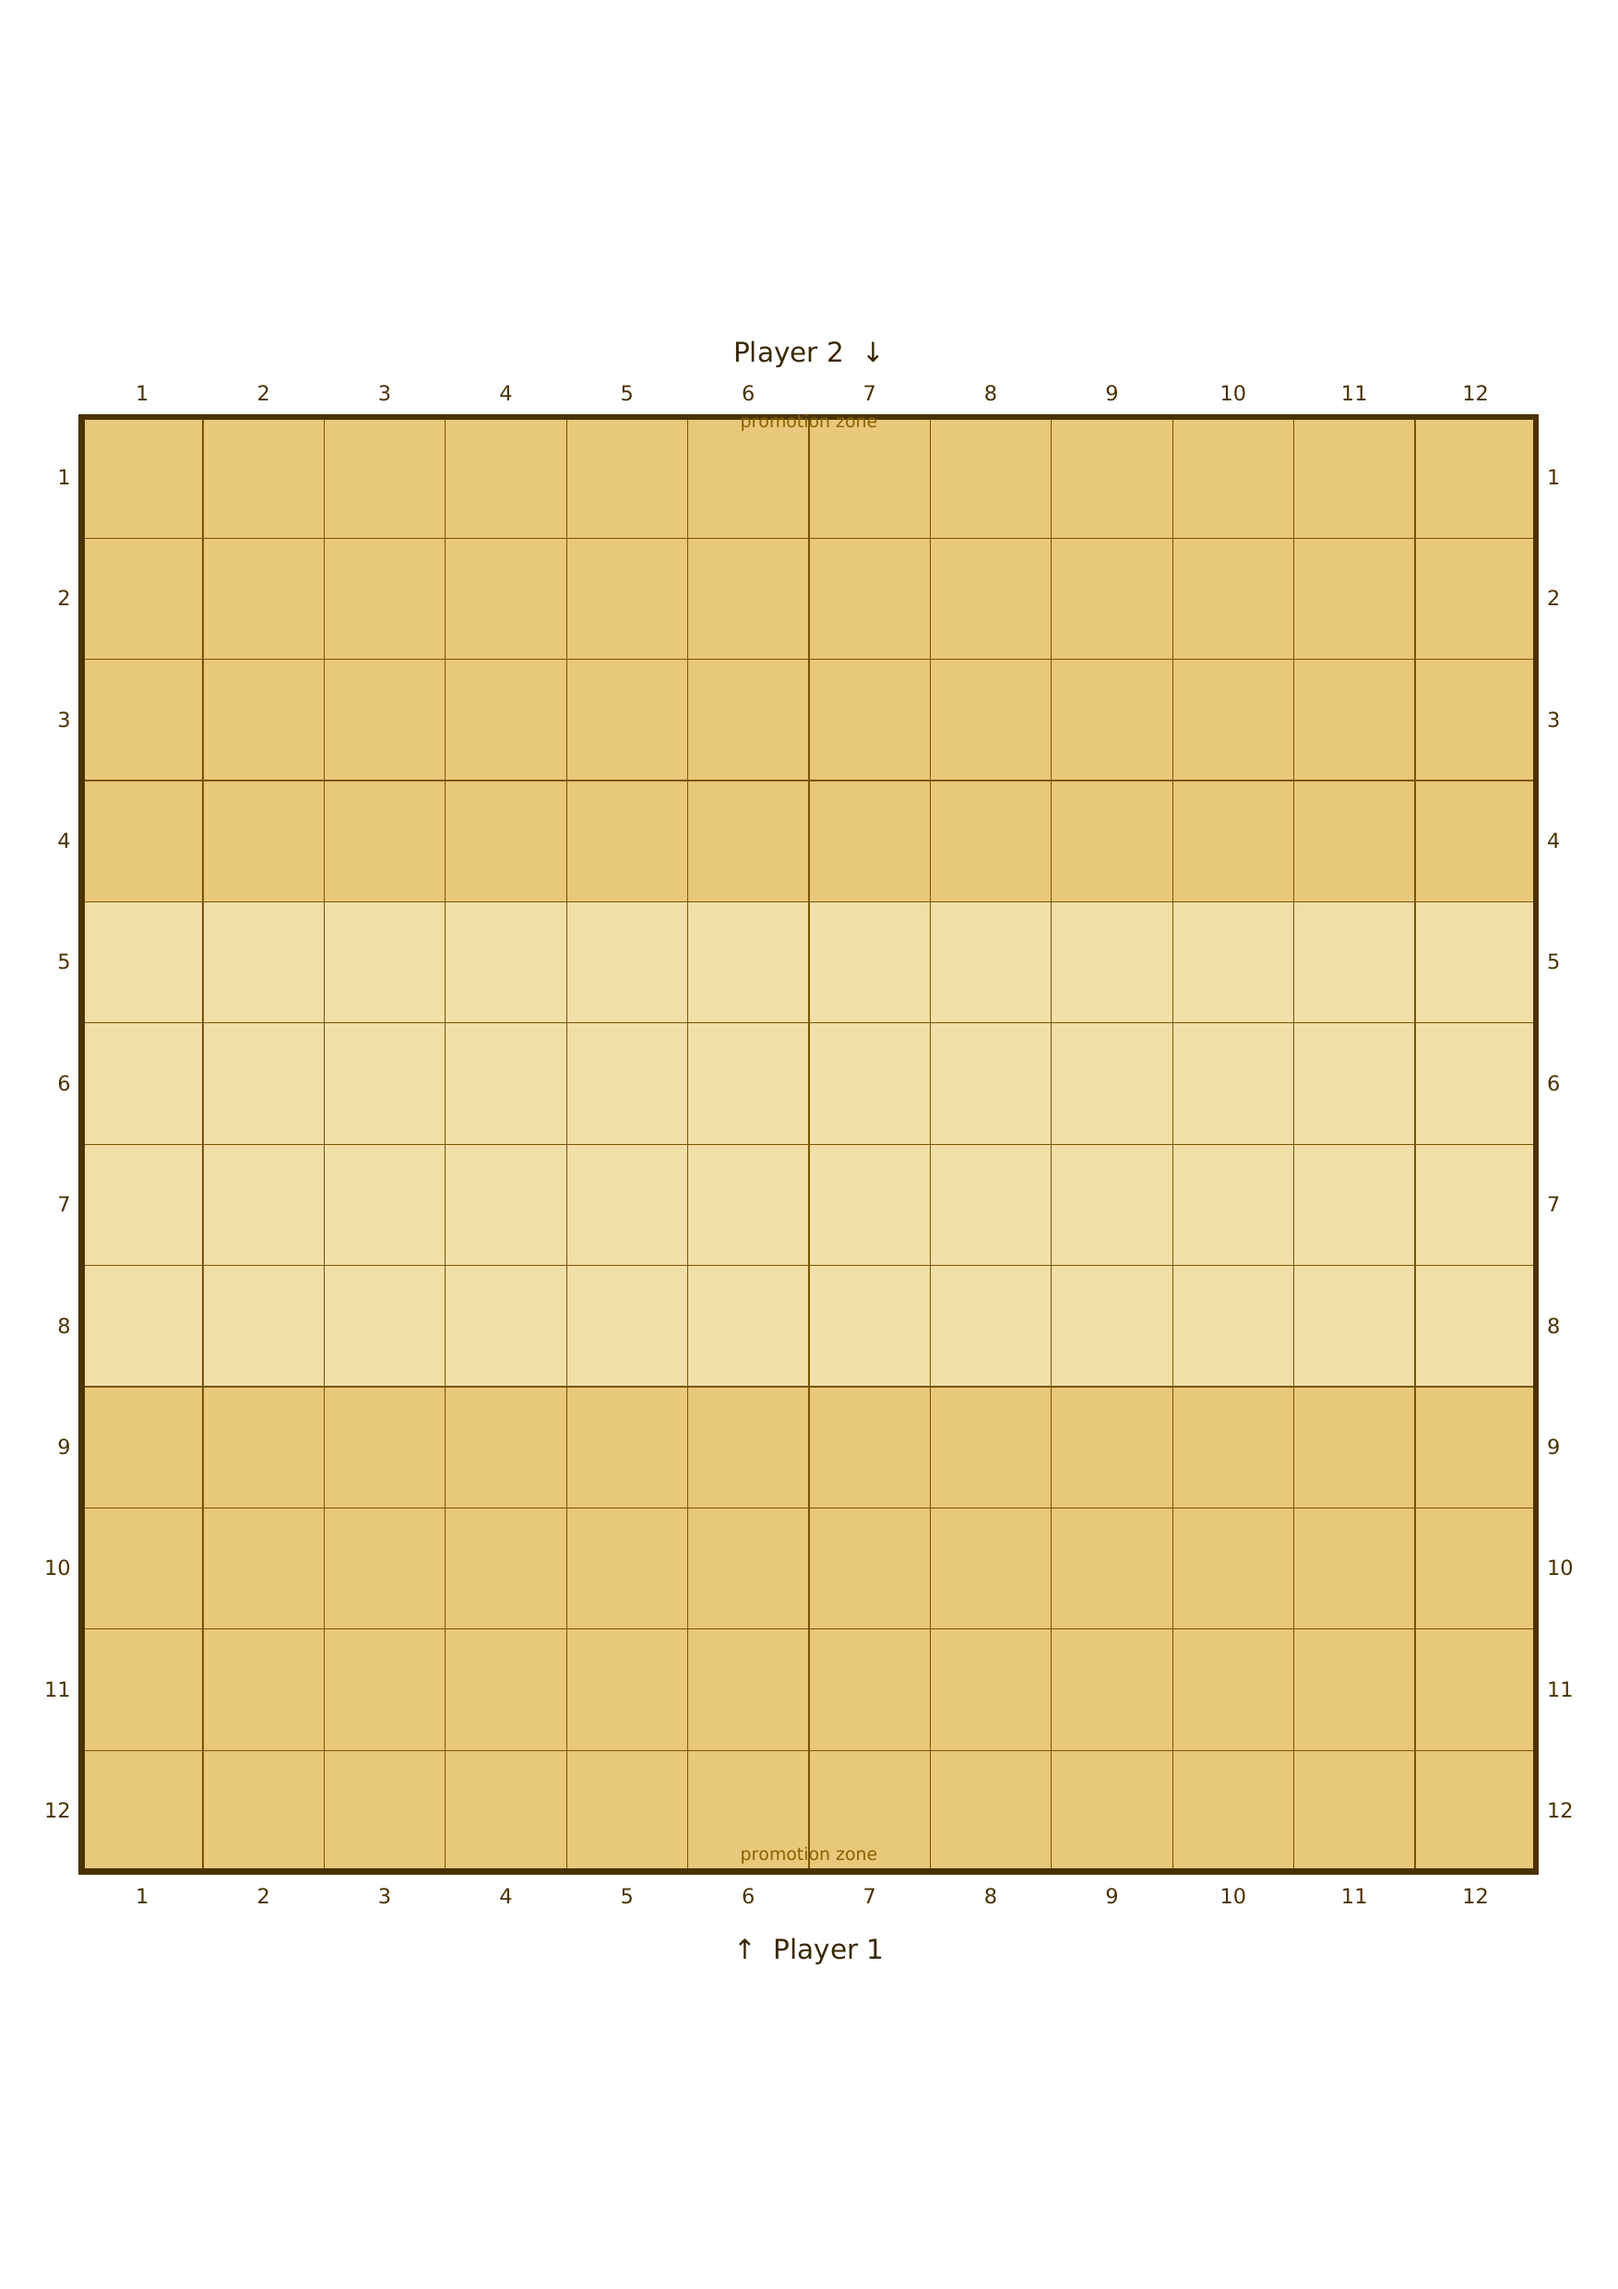
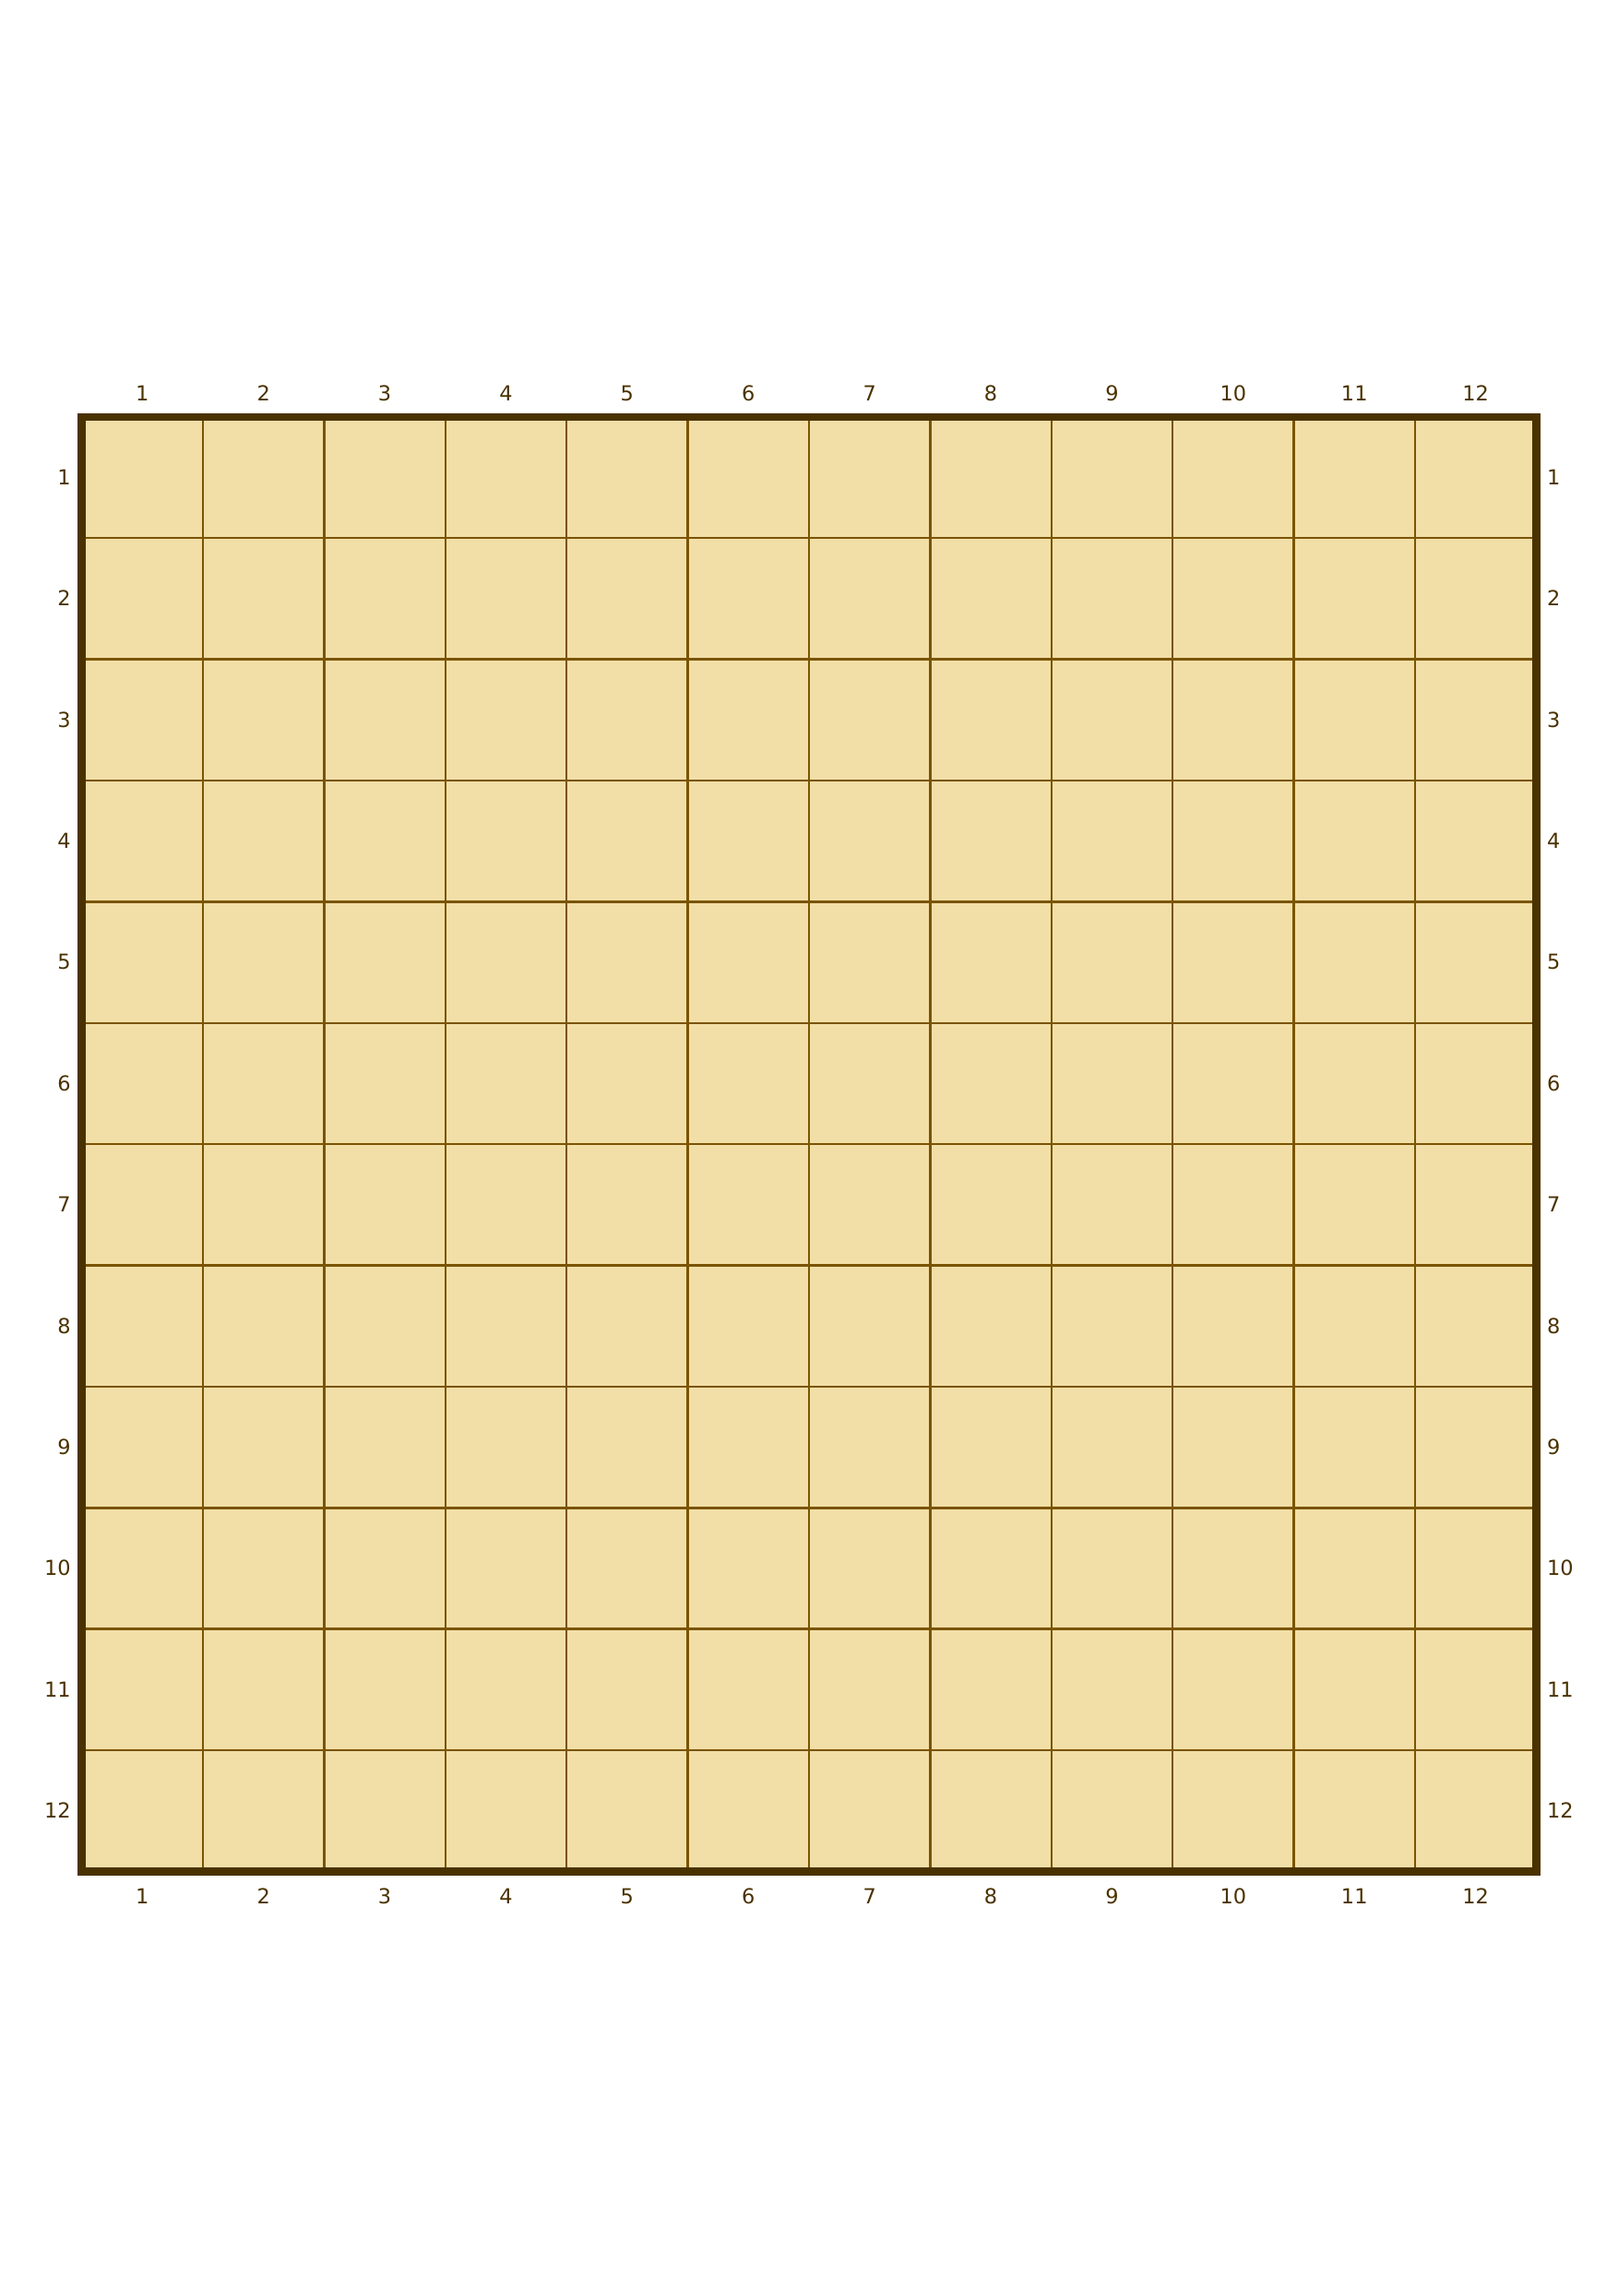
Board: remove player labels and promotion zones, thicker lines

diff --git a/build_board.py b/build_board.py
@@ -39,19 +39,14 @@ c.setTitle("Chu Shogi — 12×12 Board")
 c.setFillColor(C_WOOD)
 c.rect(BX, BY, BOARD_W, BOARD_H, fill=1, stroke=0)
 
-# ── Promotion zones (4 rows on each side) ─────────────────────────────────────
-c.setFillColor(C_PROMO)
-c.rect(BX, BY,                      BOARD_W, 4*CELL, fill=1, stroke=0)  # bottom
-c.rect(BX, BY + BOARD_H - 4*CELL,  BOARD_W, 4*CELL, fill=1, stroke=0)  # top
-
 # ── Grid ──────────────────────────────────────────────────────────────────────
-c.setStrokeColor(C_LINE); c.setLineWidth(0.6)
+c.setStrokeColor(C_LINE); c.setLineWidth(1.2)
 for i in range(N + 1):
     c.line(BX + i*CELL, BY, BX + i*CELL, BY + BOARD_H)
     c.line(BX, BY + i*CELL, BX + BOARD_W, BY + i*CELL)
 
 # ── Border ────────────────────────────────────────────────────────────────────
-c.setStrokeColor(C_BORDER); c.setLineWidth(3.0)
+c.setStrokeColor(C_BORDER); c.setLineWidth(4.0)
 c.rect(BX, BY, BOARD_W, BOARD_H, fill=0, stroke=1)
 
 # ── Column numbers (1–12, left to right) ──────────────────────────────────────
@@ -68,23 +63,6 @@ for j in range(N):
     c.drawRightString(BX - 2*mm, cy, str(j + 1))
     c.drawString(BX + BOARD_W + 2*mm, cy, str(j + 1))
 
-# ── Player labels + direction arrows ─────────────────────────────────────────
-label_fs = 5*mm
-c.setFont("LAT", label_fs); c.setFillColor(C_PLAYER)
-
-# Player 2 (top, pieces face down toward Player 1)
-p2y = BY + BOARD_H + 10*mm
-c.drawCentredString(PAGE_W/2, p2y, "Player 2  ↓")
-
-# Player 1 (bottom)
-p1y = BY - 16*mm
-c.drawCentredString(PAGE_W/2, p1y, "↑  Player 1")
-
-# ── Promotion zone label ──────────────────────────────────────────────────────
-note_fs = 3.2*mm
-c.setFont("LAT", note_fs); c.setFillColor(HexColor("#8B6000"))
-c.drawCentredString(PAGE_W/2, BY + BOARD_H - 2*mm, "promotion zone")
-c.drawCentredString(PAGE_W/2, BY + 2*mm, "promotion zone")
 
 c.showPage()
 c.save()
